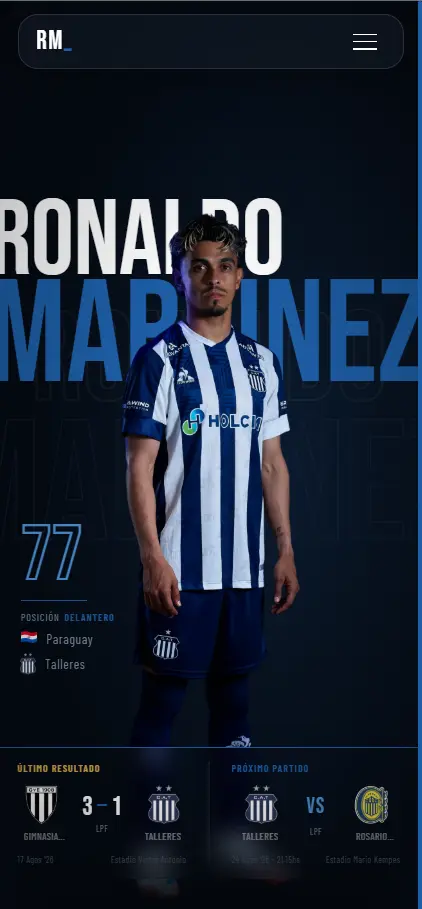
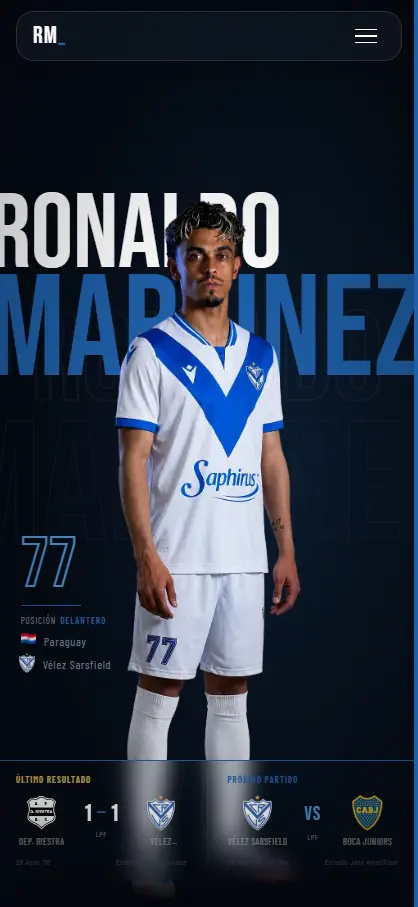
update data players more

diff --git a/src/data/players.js b/src/data/players.js
@@ -3,7 +3,6 @@ import guido1 from "../../public/media/players/guido_mainero1.webp";
 import gonzalo from "../../public/media/players/gonzalo_piovi.jpeg";
 import gonzalo1 from "../../public/media/players/gonzalo_piovi1.webp";
 import ronaldo from "../../public/media/players/ronaldo_martinez.webp";
-import ronaldo1 from "../../public/media/players/ronaldo_martinez1.png";
 import miguelRondeli from "../assets/masJugadores/miguel_rondelli.webp";
 import andresZanini from "../assets/masJugadores/andres_zanini.webp";
 import ezequielPiovi from "../assets/masJugadores/ezequiel_piovi.webp";
@@ -16,47 +15,25 @@ import lisandroAlzugaray from "../assets/masJugadores/lisandro_alzugaray.webp";
 import luisRamos from "../assets/masJugadores/luis_ramos.webp";
 import matiasDiBenedetto from "../assets/masJugadores/matias_dibenedetto.webp";
 import nicolasSilva from "../assets/masJugadores/nicolas_silva.webp";
-/**
- * Todos los casos publicados, en un solo array.
- *
- * `tier` decide en qué sección aparece cada uno:
- *   - "featured" → los mockups de teléfono de "Destacados" (02).
- *   - "more"     → el carrusel de "Más proyectos" (04).
- *
- * Viven juntos a propósito: la forma del objeto es idéntica, el modal de
- * detalle es el mismo y `playersSummary` —el strip del Hero— cuenta sobre el
- * total. Mover un caso de una sección a la otra es cambiar una palabra, y dar
- * de alta un jugador se hace en un único lugar.
- *
- * `cover` es la captura que se ve en la card, y su formato depende del tier:
- * los destacados van dentro de un PhoneFrame y necesitan un screenshot mobile
- * vertical; los del carrusel se muestran apaisados, así que ahí va la captura
- * desktop.
- */
+import cainFara from "../assets/masJugadores/cain_fara.webp";
+import polacoFydriszewski from "../assets/masJugadores/polaco_fydriszewski.webp";
+
+
 export const players = [
   {
-    slug: "guido_mainero",          // identificador único, sin espacios
+    slug: "guido_mainero", 
     tier: "featured",
     status: "live",          // "coming" = teaser, sin material aún
     year: "2026",
-    url: "https://guidomainero.com",              // landing en vivo (null si no está)
+    url: "https://guidomainero.com",      
     player: {
       name: "Guido Mainero",
       position: "Delantero",
       club: "Platense",
       country: "Argentina",
-      number: 7,                      // opcional
+      number: 7,   
     },
-    cover: guido,   // captura mobile, vertical
-    media: [
-      { type: "image", src: guido1, orientation: "landscape", alt: "web guido mainero" },
-    ],
-    metrics: [                           // máximo 3, siempre con período explícito
-      { value: "+120K", label: "Visitas en 30 días" },
-    ],
-    highlights: ["Ficha de carrera interactiva", "Multi-idioma ES/EN"],
-    testimonial: null,
-    tech: ["React", "Framer Motion"],
+    cover: guido,  
   },
   {
     slug: "gonzalo_piovi",
@@ -72,15 +49,6 @@ export const players = [
       number: 33,
     },
     cover: gonzalo1,
-    media: [
-      { type: "image", src: gonzalo, orientation: "landscape", alt: "web gonzalo piovi" },
-    ],
-    metrics: [
-      { value: "+120K", label: "Visitas en 30 días" },
-    ],
-    highlights: ["Ficha de carrera interactiva", "Multi-idioma ES/EN"],
-    testimonial: null,
-    tech: ["React", "Framer Motion"],
   },
   {
     slug: "ronaldo_martinez",
@@ -91,21 +59,11 @@ export const players = [
     player: {
       name: "Rony Martinez",
       position: "Delantero",
-      club: "Talleres",
+      club: "Vélez Sarsfield",
       country: "Argentina",
-      number: 9,
+      number: 77,
     },
     cover: ronaldo,
-    media: [
-      { type: "image", src: ronaldo1, orientation: "landscape", alt: "web ronaldo martinez" },
-    ],
-    metrics: [
-      { value: "+30K", label: "Visitas en 30 días" },
-      { value: "Resultados actualizados", label: "Seguimiento continuo" },
-    ],
-    highlights: ["Ficha de carrera interactiva", "Multi-idioma ES/EN"],
-    testimonial: null,
-    tech: ["React", "Framer Motion"],
   },
   {
     slug: "miguel_rondelli",
@@ -118,21 +76,9 @@ export const players = [
       position: "Entrenador",
       club: "FBC Melgar",
       country: "Argentina",
-      // Sin dorsal: es DT. El rol ya lo dice `position`, y el modal solo
-      // imprime el "#" cuando hay número.
       number: null,
     },
     cover: miguelRondeli,   // captura desktop, apaisada
-    media: [
-      { type: "image", src: miguelRondeli, orientation: "landscape", alt: "web miguel rondelli" },
-    ],
-    metrics: [
-      { value: "+30K", label: "Visitas en 30 días" },
-      { value: "Resultados actualizados", label: "Seguimiento continuo" },
-    ],
-    highlights: ["Ficha de carrera interactiva", "Multi-idioma ES/EN"],
-    testimonial: null,
-    tech: ["React", "Framer Motion"],
   },
   {
     slug: "andres_zanini",
@@ -143,21 +89,26 @@ export const players = [
     player: {
       name: "Andrés Zanini",
       position: "Delantero",
-      club: "FBC Melgar",
+      club: "Dep la Serena",
       country: "Argentina",
-      number: 10,
+      number: 2,
     },
     cover: andresZanini,
-    media: [
-      { type: "image", src: andresZanini, orientation: "landscape", alt: "web andres zanini" },
-    ],
-    metrics: [
-      { value: "+30K", label: "Visitas en 30 días" },
-      { value: "Resultados actualizados", label: "Seguimiento continuo" },
-    ],
-    highlights: ["Ficha de carrera interactiva", "Multi-idioma ES/EN"],
-    testimonial: null,
-    tech: ["React", "Framer Motion"],
+  },
+  {
+    slug: "cain_fara",
+    tier: "more",
+    status: "live",
+    year: "2026",
+    url: "https://cain-fara.vercel.app",
+    player: {
+      name: "Cain Fara",
+      position: "Defensor",
+      club: "Universitario",
+      country: "Argentina",
+      number: 2,
+    },
+    cover: cainFara,
   },
   {
     slug: "ezequiel_piovi",
@@ -168,46 +119,41 @@ export const players = [
     player: {
       name: "Ezequiel Piovi",
       position: "Centrocampista",
-      club: "FBC Melgar",
+      club: "Estudiantes LP",
       country: "Argentina",
-      number: 8,
+      number: 21,
     },
     cover: ezequielPiovi,
-    media: [
-      { type: "image", src: ezequielPiovi, orientation: "landscape", alt: "web ezequiel piovi" },
-    ],
-    metrics: [
-      { value: "+30K", label: "Visitas en 30 días" },
-      { value: "Resultados actualizados", label: "Seguimiento continuo" },
-    ],
-    highlights: ["Ficha de carrera interactiva", "Multi-idioma ES/EN"],
-    testimonial: null,
-    tech: ["React", "Framer Motion"],
   },
   {
-    slug: "jp_ruizgomez",
+    slug: "polaco_fydriszewski",
     tier: "more",
     status: "live",
     year: "2026",
-    url: "https://jp-ruizgomez.netlify.app",
+    url: "https://polaco-fydriszewski.netlify.app",
     player: {
-      name: "JP Ruiz Gomez",
+      name: "Polaco Fydriszewski",
       position: "Delantero",
-      club: "FBC Melgar",
+      club: "Juniors Barranquilla",
       country: "Argentina",
-      number: 9,
+      number: 19,
     },
-    cover: jpRuizGomez,
-    media: [
-      { type: "image", src: jpRuizGomez, orientation: "landscape", alt: "web jp ruiz gomez" },
-    ],
-    metrics: [
-      { value: "+30K", label: "Visitas en 30 días" },
-      { value: "Resultados actualizados", label: "Seguimiento continuo" },
-    ],
-    highlights: ["Ficha de carrera interactiva", "Multi-idioma ES/EN"],
-    testimonial: null,
-    tech: ["React", "Framer Motion"],
+    cover: polacoFydriszewski,
+  },
+  {
+    slug: "matias_dibenedetto",
+    tier: "more",
+    status: "live",
+    year: "2026",
+    url: "https://matias-dibenedetto.netlify.app",
+    player: {
+      name: "Matias Dibenedetto",
+      position: "Delantero",
+      club: "Universitario",
+      country: "Argentina",
+      number: 5,
+    },
+    cover: matiasDiBenedetto,
   },
   {
     slug: "facundo_callejo",
@@ -218,21 +164,26 @@ export const players = [
     player: {
       name: "Facundo Callejo",
       position: "Delantero",
-      club: "FBC Melgar",
+      club: "Cusco FC",
       country: "Argentina",
+      number: 9,
+    },  
+    cover: facundoCallejo,
+  },
+  {
+    slug: "luis_ramos",
+    tier: "more",
+    status: "live",
+    year: "2026",
+    url: "https://luis-ramos.netlify.app",
+    player: {
+      name: "Luis Ramos",
+      position: "Delantero",
+      club: "Alianza Lima",
+      country: "Peru",
       number: 11,
     },
-    cover: facundoCallejo,
-    media: [
-      { type: "image", src: facundoCallejo, orientation: "landscape", alt: "web facundo callejo" },
-    ],
-    metrics: [
-      { value: "+30K", label: "Visitas en 30 días" },
-      { value: "Resultados actualizados", label: "Seguimiento continuo" },
-    ],
-    highlights: ["Ficha de carrera interactiva", "Multi-idioma ES/EN"],
-    testimonial: null,
-    tech: ["React", "Framer Motion"],
+    cover: luisRamos,
   },
   {
     slug: "hector_fertoli",
@@ -248,6 +199,81 @@ export const players = [
       number: 8,
     },
     cover: hectorFertoli,
+  },
+  {
+    slug: "ivan_colman",
+    tier: "more",
+    status: "live",
+    year: "2026",
+    url: "https://ivan-colman.netlify.app",
+    player: {
+      name: "Ivan Colman",
+      position: "Centrocampista",
+      club: "Cusco FC",
+      country: "Argentina",
+      number: 10,
+    },
+    cover: ivanColman,
+  },
+  {
+    slug: "lisandro_alzugaray",
+    tier: "more",
+    status: "live",
+    year: "2026",
+    url: "https://lisandro-alzugaray.netlify.app",
+    player: {
+      name: "Lisandro Alzugaray",
+      position: "Delantero",
+      club: "Universitario",
+      country: "Argentina",
+      number: 30,
+    },
+    cover: lisandroAlzugaray,
+  },
+  {
+    slug: "jp_ruizgomez",
+    tier: "more",
+    status: "live",
+    year: "2026",
+    url: "https://jp-ruizgomez.netlify.app",
+    player: {
+      name: "JP Ruiz Gomez",
+      position: "Delantero",
+      club: "FBC Melgar",
+      country: "Argentina",
+      number: 9,
+    },
+    cover: jpRuizGomez,
+  },
+  {
+    slug: "nicolas_silva",
+    tier: "more",
+    status: "live",
+    year: "2026",
+    url: "https://nicolas-silva.netlify.app",
+    player: {
+      name: "Nicolas Silva",
+      position: "Defensor",
+      club: "Universitario",
+      country: "Argentina",
+      number: 4,
+    },
+    cover: nicolasSilva,
+  },
+  {
+    slug: "julian_aquino",
+    tier: "more",
+    status: "live",
+    year: "2026",
+    url: "https://julian-aquino.netlify.app",
+    player: {
+      name: "Julian Aquino",
+      position: "Delantero",
+      club: "Universitario",
+      country: "Argentina",
+      number: 7,
+    },
+    cover: julianAquino,
   }
 ];
 
